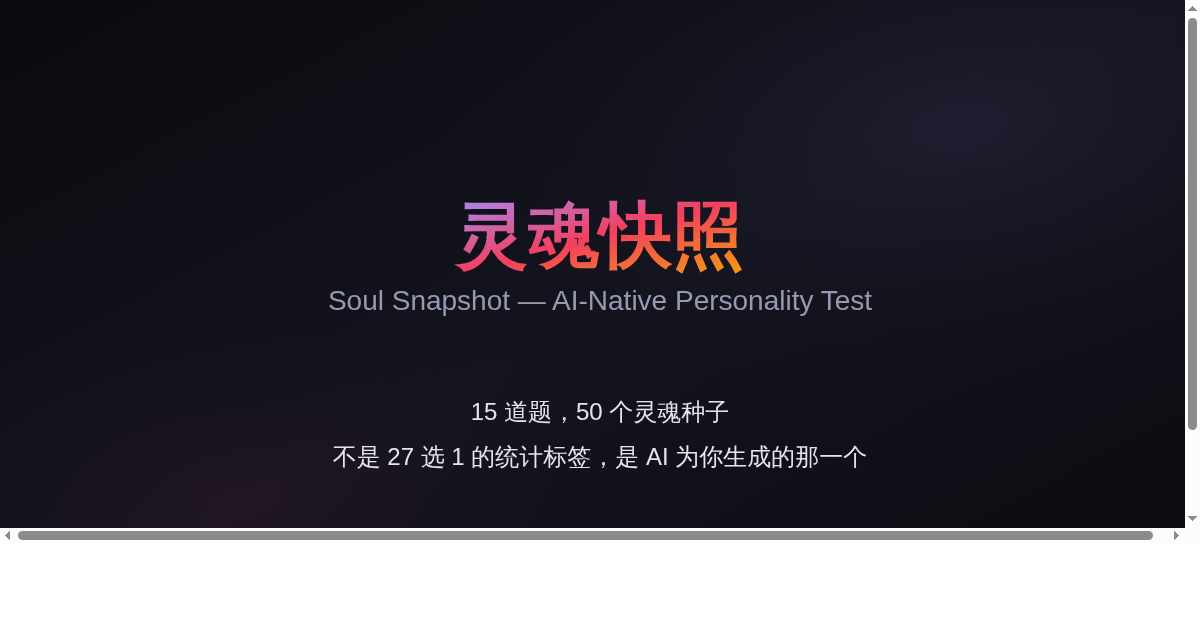
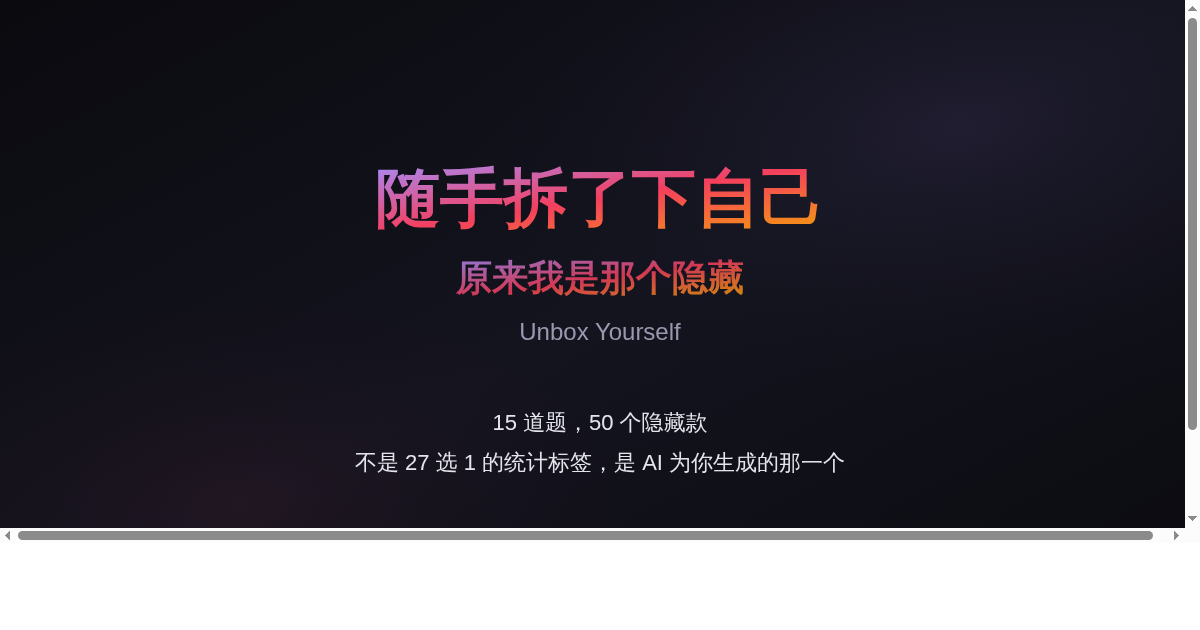
feat: 分享链接 + OG开片图更新 + og:url修正
1. 新增「🔗 分享链接」按钮（初始overlay + 图片生成后）：
   - 支持 navigator.share() → 系统分享面板（iOS/Android）
   - 不支持 → 复制URL到剪贴板 → '去微信发送给朋友'
   - 分享文案含人格名 + 短链接

2. share-preview.png 重构：
   '灵魂快照' → '随手拆了下自己 / 原来我是那个隐藏'
   'Soul Snapshot' → 'Unbox Yourself'
   '50个灵魂种子' → '50个隐藏款'

3. og:url 修正：从根路径 → 各版专属路径（plan-a/b/c/d）

四版全覆盖

Changed region(s): [[0.2775, 0.2413, 0.74, 0.5429], [0.2775, 0.6333, 0.7092, 0.754]]

diff --git a/plan-a/index.html b/plan-a/index.html
@@ -9,7 +9,7 @@
 <meta property="og:title" content="随手拆了下自己，原来我是那个隐藏 · 你的 AI 人格测试">
 <meta property="og:description" content="15 道题，50 个隐藏款。专属于你的人格，不是 27 选 1 的统计学标签——是 AI 为你生成的那一个。">
 <meta property="og:type" content="website">
-<meta property="og:url" content="https://jasoneip01-pixel.github.io/">
+<meta property="og:url" content="https://jasoneip01-pixel.github.io/plan-a/">
 <meta property="og:image" content="https://jasoneip01-pixel.github.io/share-preview.png">
 <meta property="og:image:width" content="1200">
 <meta property="og:image:height" content="630">
@@ -528,6 +528,7 @@ body::before {
       <button class="btn btn-secondary" onclick="closeShare()">关闭</button>
       <button class="btn btn-primary" onclick="copyShareCard()">📋 复制文案</button>
       <button class="btn btn-primary" onclick="saveShareImage()" style="background:linear-gradient(135deg,var(--accent2),var(--teal))">📸 保存图片</button>
+      <button class="btn btn-primary" onclick="shareLink()" style="background:linear-gradient(135deg,var(--accent2),var(--gold))">🔗 分享链接</button>
     </div>
   </div>
 </div>
@@ -1701,7 +1702,8 @@ function saveShareImage() {
       overlay.querySelector('.share-actions').innerHTML =
         '<button class="btn btn-secondary" onclick="closeShare()">关闭</button>' +
         '<button class="btn btn-primary" onclick="copyShareCard()">📋 复制文案</button>' +
-        '<button class="btn btn-primary" onclick="saveShareImage()">🔄 重新生成</button>';
+        '<button class="btn btn-primary" onclick="saveShareImage()">🔄 重新生成</button>' +
+        '<button class="btn btn-primary" onclick="shareLink()" style="background:linear-gradient(135deg,var(--accent2),var(--gold))">🔗 分享链接</button>';
     }).catch(function() {
       content.innerHTML = '<div style="text-align:center;padding:16px;color:#9898b0">' +
         '<div style="font-size:1.2rem;margin-bottom:8px">📸</div><div>图片生成失败</div>' +
@@ -1745,6 +1747,26 @@ function downloadImage() {
   document.body.appendChild(a);
   a.click();
   document.body.removeChild(a);
+}
+
+// Share link (Web Share API or clipboard fallback)
+function shareLink() {
+  const p = state.result.personality;
+  const url = window.location.href;
+  const title = '随手拆了下自己，原来我是那个隐藏';
+  const text = '我刚测了AI人格测试——「' + p.name + '」！' +
+    '你也来拆一个你的隐藏款👉 ' + url;
+  if (navigator.share) {
+    navigator.share({ title: title, text: text, url: url }).catch(function() {});
+  } else {
+    if (navigator.clipboard) {
+      navigator.clipboard.writeText(url).then(function() {
+        alert('✅ 链接已复制！去微信发送给朋友吧～');
+      });
+    } else {
+      prompt('复制这个链接发给朋友：', url);
+    }
+  }
 }
 
 

diff --git a/plan-b/index.html b/plan-b/index.html
@@ -8,7 +8,7 @@
 <meta property="og:title" content="随手拆了下自己，原来我是那个隐藏 · 你的 AI 人格测试">
 <meta property="og:description" content="15 道题，50 个隐藏款。专属于你的人格，不是 27 选 1 的统计学标签——是 AI 为你生成的那一个。">
 <meta property="og:type" content="website">
-<meta property="og:url" content="https://jasoneip01-pixel.github.io/">
+<meta property="og:url" content="https://jasoneip01-pixel.github.io/plan-b/">
 <meta property="og:image" content="https://jasoneip01-pixel.github.io/share-preview.png">
 <meta property="og:image:width" content="1200">
 <meta property="og:image:height" content="630">
@@ -471,6 +471,7 @@ body {
       <button class="btn btn-secondary" onclick="closeShare()">关闭</button>
       <button class="btn btn-primary" onclick="copyShareCard()">📋 复制文案</button>
       <button class="btn btn-primary" onclick="saveShareImage()" style="background:linear-gradient(135deg,var(--accent2),var(--teal))">📸 保存图片</button>
+      <button class="btn btn-primary" onclick="shareLink()" style="background:linear-gradient(135deg,var(--accent2),var(--gold))">🔗 分享链接</button>
     </div>
   </div>
 </div>
@@ -1618,7 +1619,8 @@ function saveShareImage() {
       overlay.querySelector('.share-actions').innerHTML =
         '<button class="btn btn-secondary" onclick="closeShare()">关闭</button>' +
         '<button class="btn btn-primary" onclick="copyShareCard()">📋 复制文案</button>' +
-        '<button class="btn btn-primary" onclick="saveShareImage()">🔄 重新生成</button>';
+        '<button class="btn btn-primary" onclick="saveShareImage()">🔄 重新生成</button>' +
+        '<button class="btn btn-primary" onclick="shareLink()" style="background:linear-gradient(135deg,var(--accent2),var(--gold))">🔗 分享链接</button>';
     }).catch(function() {
       content.innerHTML = '<div style="text-align:center;padding:16px;color:#9898b0">' +
         '<div style="font-size:1.2rem;margin-bottom:8px">📸</div><div>图片生成失败</div>' +
@@ -1660,6 +1662,25 @@ function downloadImage() {
   document.body.appendChild(a);
   a.click();
   document.body.removeChild(a);
+}
+
+function shareLink() {
+  const p = state.result.personality;
+  const url = window.location.href;
+  const title = '随手拆了下自己，原来我是那个隐藏';
+  const text = '我刚测了AI人格测试——「' + p.name + '」！' +
+    '你也来拆一个你的隐藏款👉 ' + url;
+  if (navigator.share) {
+    navigator.share({ title: title, text: text, url: url }).catch(function() {});
+  } else {
+    if (navigator.clipboard) {
+      navigator.clipboard.writeText(url).then(function() {
+        alert('✅ 链接已复制！去微信发送给朋友吧～');
+      });
+    } else {
+      prompt('复制这个链接发给朋友：', url);
+    }
+  }
 }
 
 // ═══════════════════════════════════════════════

diff --git a/plan-d/index.html b/plan-d/index.html
@@ -9,7 +9,7 @@
 <meta property="og:title" content="随手拆了下自己，原来我是那个隐藏 · 你的 AI 人格测试">
 <meta property="og:description" content="15 道题，50 个隐藏款。测一次，AI 给你你从未见过的自己。">
 <meta property="og:type" content="website">
-<meta property="og:url" content="https://jasoneip01-pixel.github.io/">
+<meta property="og:url" content="https://jasoneip01-pixel.github.io/plan-d/">
 <meta property="og:image" content="https://jasoneip01-pixel.github.io/share-preview.png">
 <meta property="og:image:width" content="1200">
 <meta property="og:image:height" content="630">
@@ -528,6 +528,7 @@ body::before {
       <button class="btn btn-secondary" onclick="closeShare()">关闭</button>
       <button class="btn btn-primary" onclick="copyShareCard()">📋 复制文案</button>
       <button class="btn btn-primary" onclick="saveShareImage()" style="background:linear-gradient(135deg,var(--accent2),var(--teal))">📸 保存图片</button>
+      <button class="btn btn-primary" onclick="shareLink()" style="background:linear-gradient(135deg,var(--accent2),var(--gold))">🔗 分享链接</button>
     </div>
   </div>
 </div>
@@ -1700,7 +1701,8 @@ function saveShareImage() {
       overlay.querySelector('.share-actions').innerHTML =
         '<button class="btn btn-secondary" onclick="closeShare()">关闭</button>' +
         '<button class="btn btn-primary" onclick="copyShareCard()">📋 复制文案</button>' +
-        '<button class="btn btn-primary" onclick="saveShareImage()">🔄 重新生成</button>';
+        '<button class="btn btn-primary" onclick="saveShareImage()">🔄 重新生成</button>' +
+        '<button class="btn btn-primary" onclick="shareLink()" style="background:linear-gradient(135deg,var(--accent2),var(--gold))">🔗 分享链接</button>';
     }).catch(function() {
       content.innerHTML = '<div style="text-align:center;padding:16px;color:#9898b0">' +
         '<div style="font-size:1.2rem;margin-bottom:8px">📸</div><div>图片生成失败</div>' +
@@ -1742,6 +1744,25 @@ function downloadImage() {
   document.body.appendChild(a);
   a.click();
   document.body.removeChild(a);
+}
+
+function shareLink() {
+  const p = state.result.personality;
+  const url = window.location.href;
+  const title = '随手拆了下自己，原来我是那个隐藏';
+  const text = '我刚测了AI人格测试——「' + p.name + '」！' +
+    '你也来拆一个你的隐藏款👉 ' + url;
+  if (navigator.share) {
+    navigator.share({ title: title, text: text, url: url }).catch(function() {});
+  } else {
+    if (navigator.clipboard) {
+      navigator.clipboard.writeText(url).then(function() {
+        alert('✅ 链接已复制！去微信发送给朋友吧～');
+      });
+    } else {
+      prompt('复制这个链接发给朋友：', url);
+    }
+  }
 }
 
 

diff --git a/plan-c/index.html b/plan-c/index.html
@@ -549,6 +549,7 @@ html,body{
       <button class="cosmic-btn ghost" onclick="closeShare()">关闭</button>
       <button class="cosmic-btn ghost" onclick="copyShare()">📋 复制文案</button>
       <button class="cosmic-btn glow" onclick="saveShareImage()">📸 保存隐藏款</button>
+      <button class="cosmic-btn glow" onclick="shareLink()">🔗 分享链接</button>
     </div>
   </div>
 </div>
@@ -1351,6 +1352,7 @@ function doRenderShare(card, container) {
       '<div class="share-actions">' +
       '<button class="cosmic-btn ghost" onclick="closeShare()">关闭</button>' +
       '<button class="cosmic-btn ghost" onclick="showShare()">返回卡片</button>' +
+      '<button class="cosmic-btn glow" onclick="shareLink()">🔗 分享链接</button>' +
       '</div>';
   }).catch(() => {
     alert('⚠️ 图片生成失败，请截屏保存或使用「复制文案」');
@@ -1378,6 +1380,26 @@ function downloadImage() {
 }
   });
 }
+
+function shareLink() {
+  const p = state.result.personality;
+  const url = window.location.href;
+  const title = '随手拆了下自己，原来我是那个隐藏';
+  const text = '我刚测了AI人格测试——「' + p.name + '」！' +
+    '你也来拆一个你的隐藏款👉 ' + url;
+  if (navigator.share) {
+    navigator.share({ title: title, text: text, url: url }).catch(function() {});
+  } else {
+    if (navigator.clipboard) {
+      navigator.clipboard.writeText(url).then(function() {
+        alert('✅ 链接已复制！去微信发送给朋友吧～');
+      });
+    } else {
+      prompt('复制这个链接发给朋友：', url);
+    }
+  }
+}
+
 
 // ═══════════════════════════════════════
 //  INIT